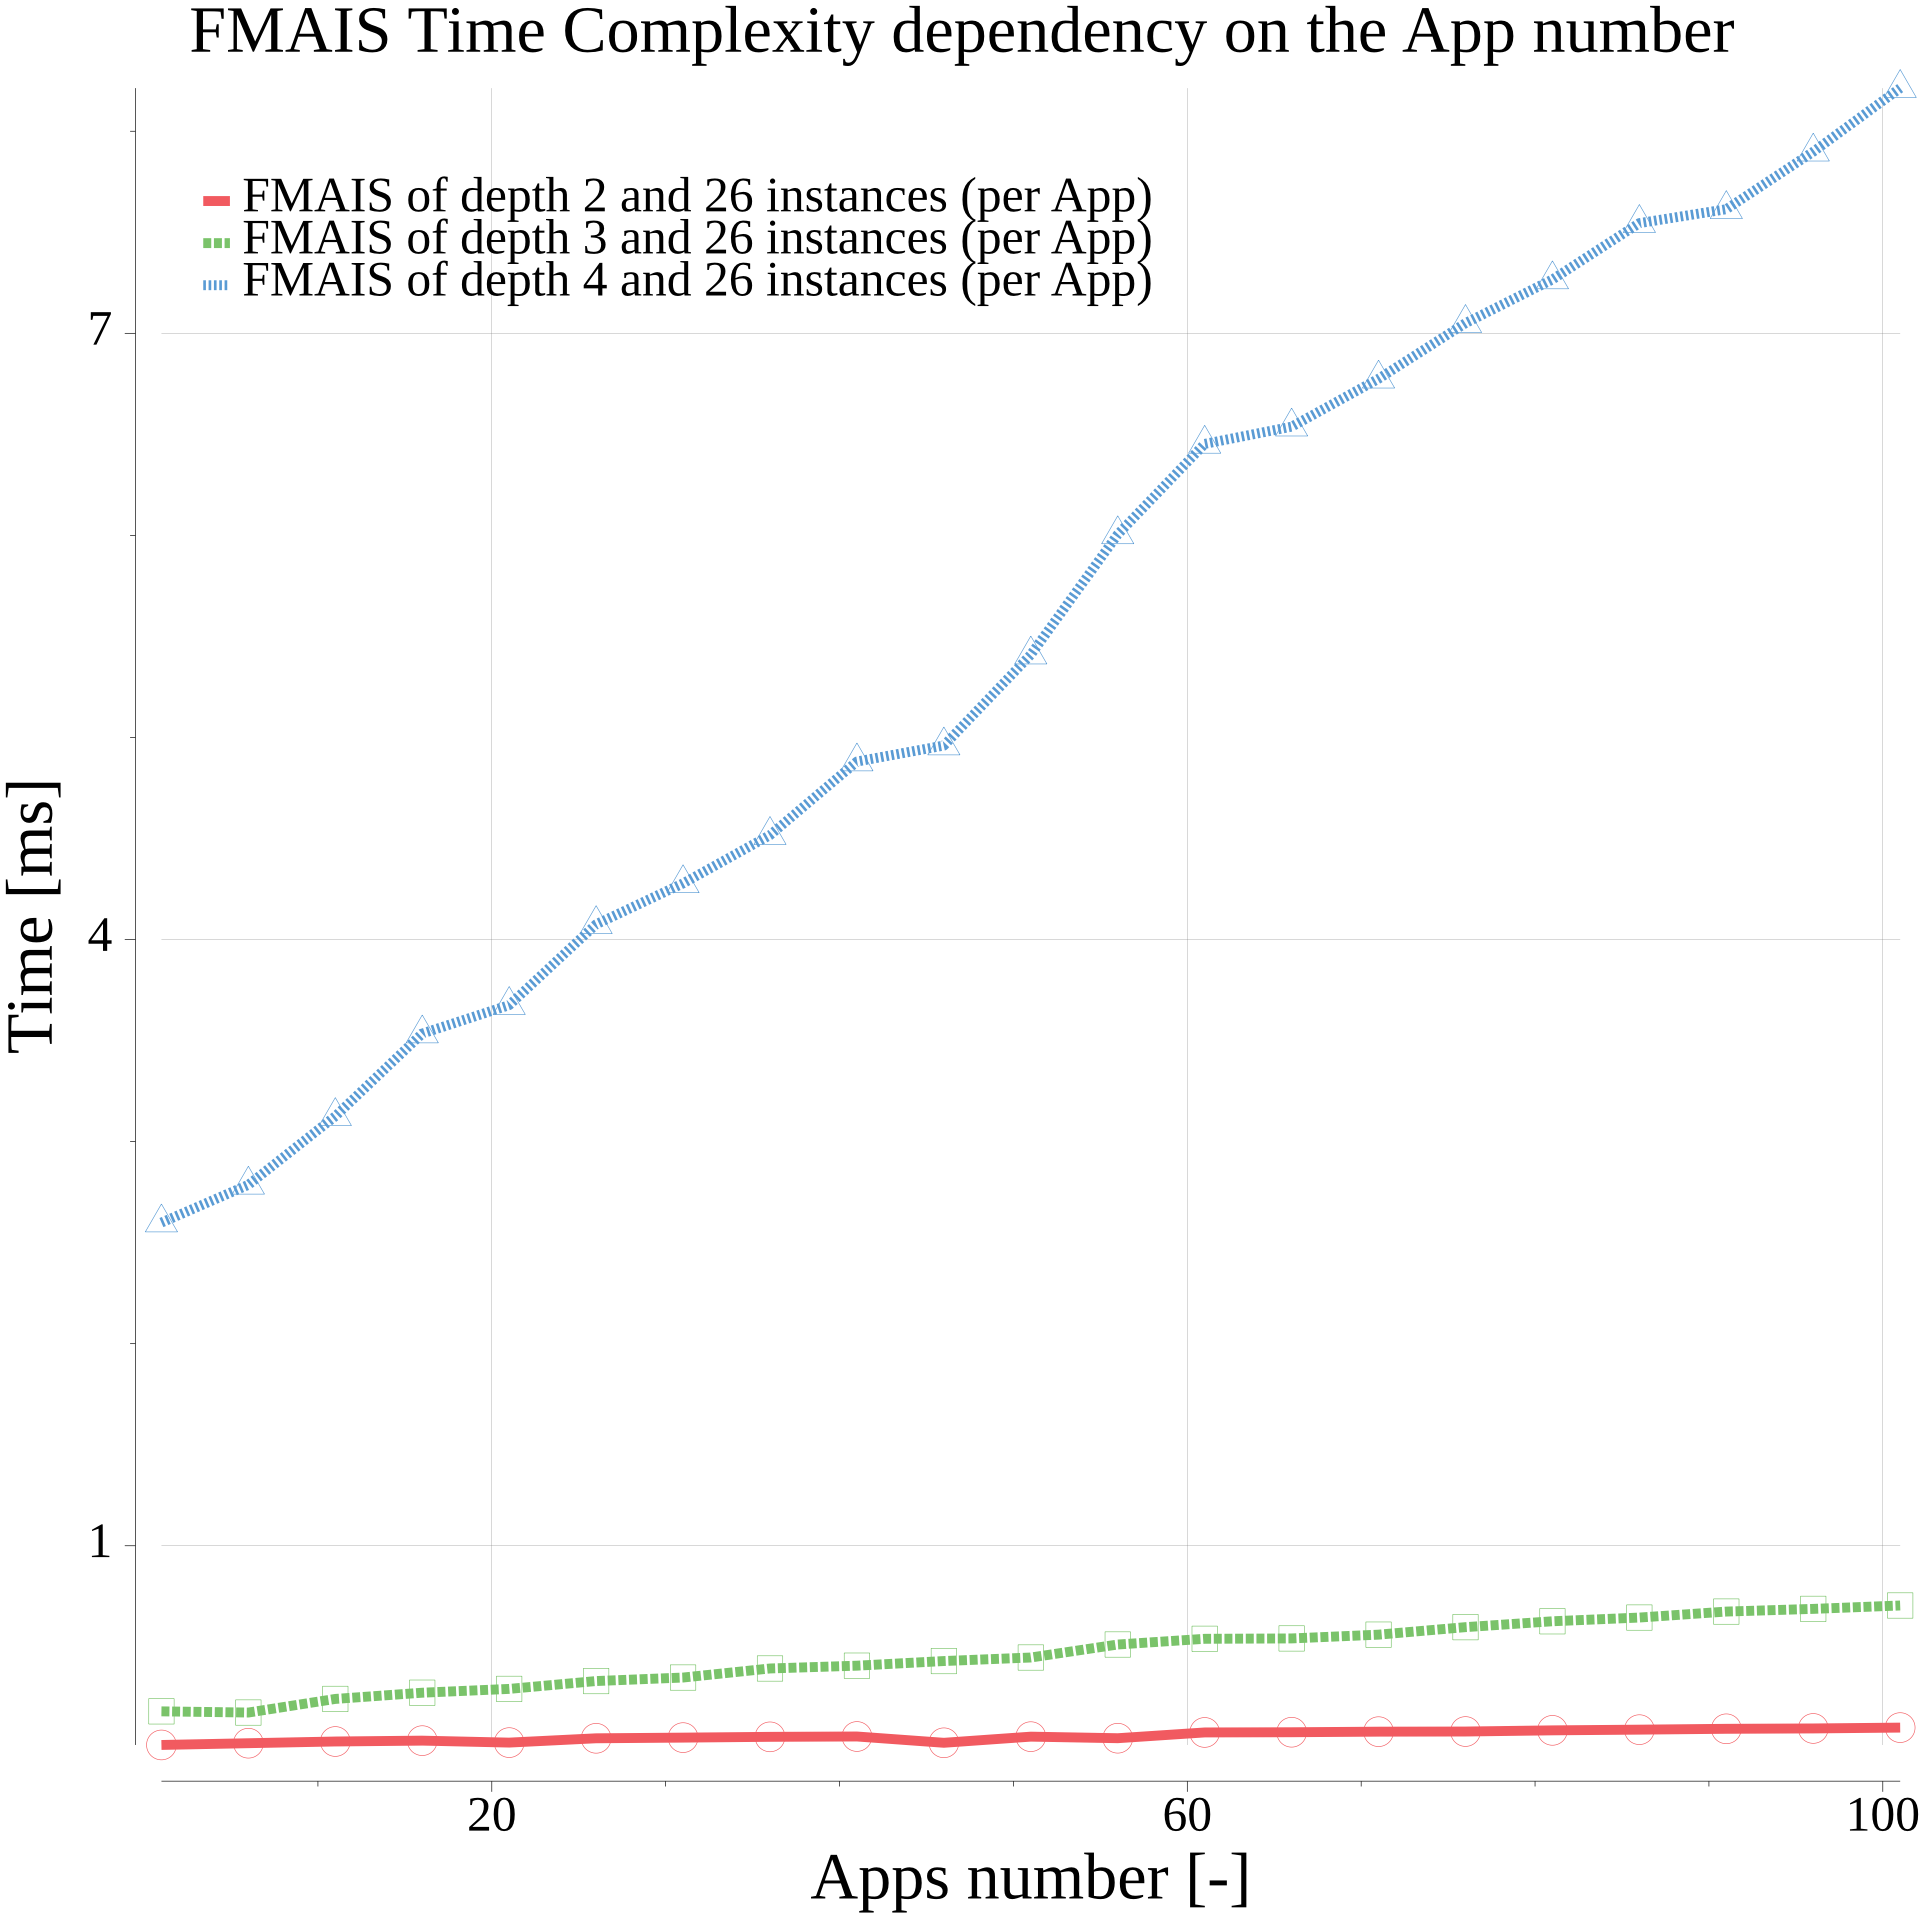
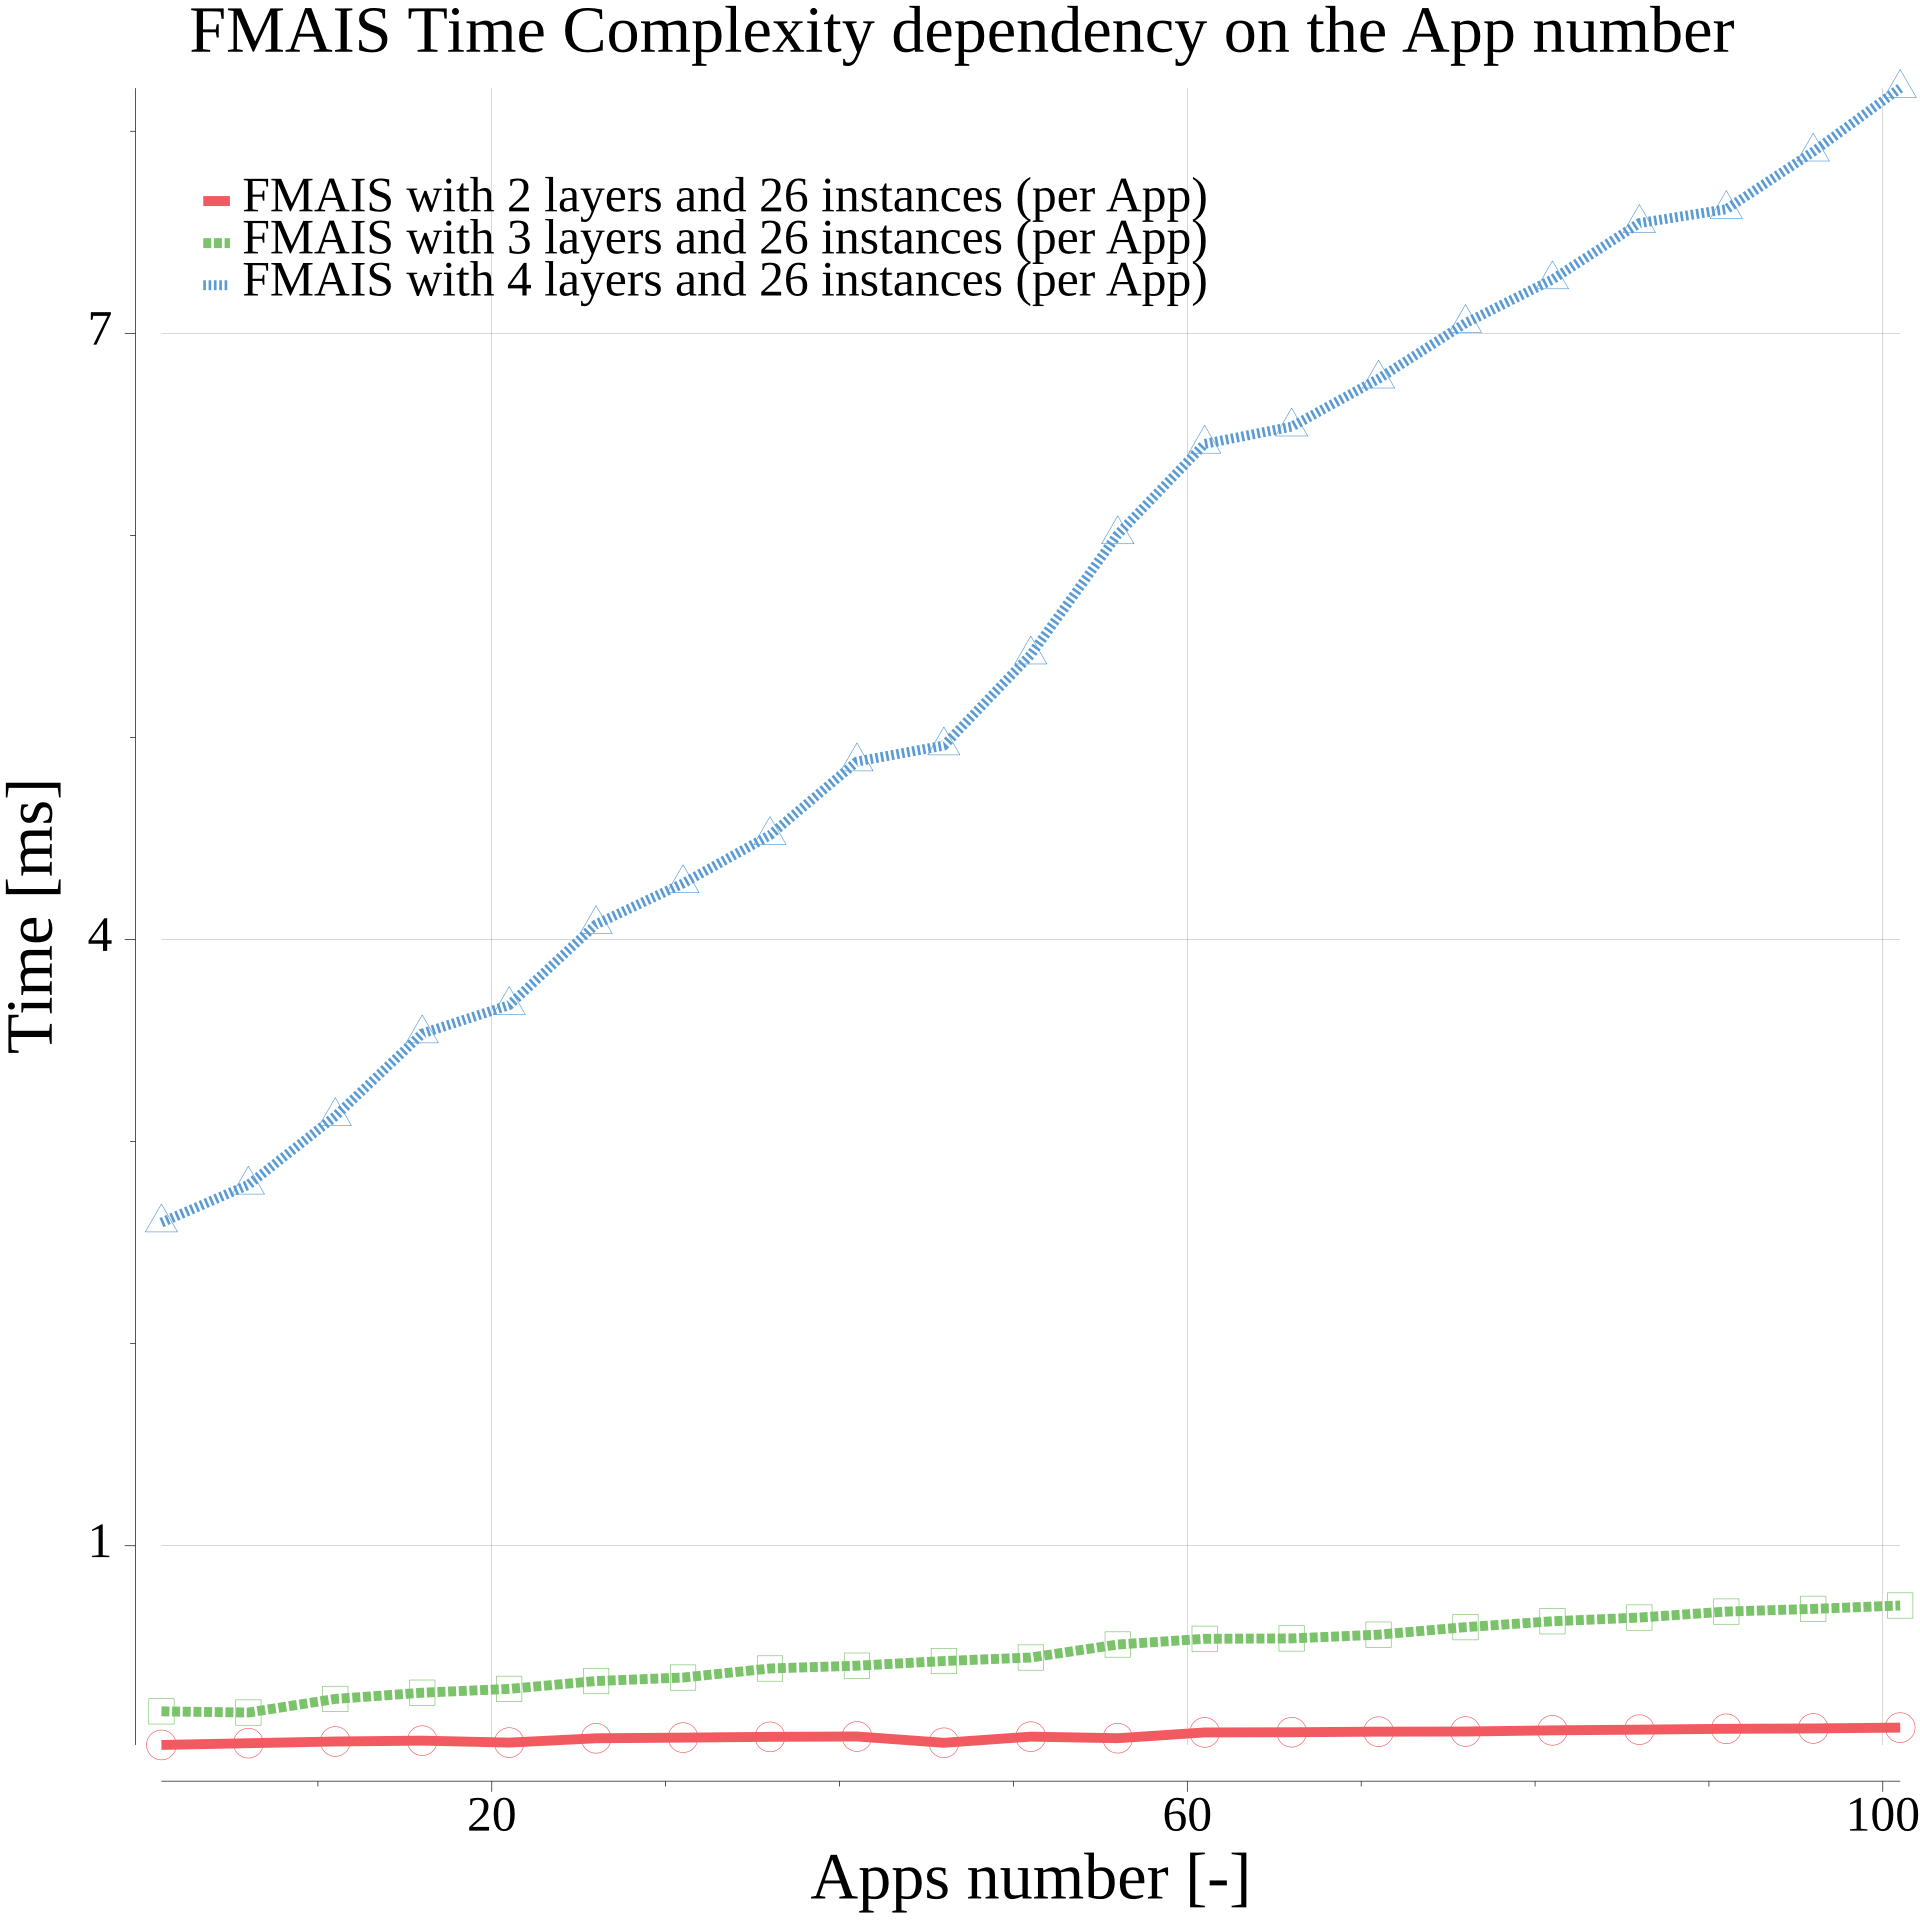
Changing naming in the figures

Changed region(s): [[0.2188, 0.0938, 0.625, 0.1562]]

diff --git a/pkg/draw/figure.go b/pkg/draw/figure.go
@@ -117,8 +117,8 @@ func PlotTimeComplexities(tc map[int]map[int]map[int]float64, maxDepth int, maxA
 	// plotting time complexity dependency based on depth
 	depthFigure := Draw{}
 	depthFigure.InitializeDrawStruct()
-	depthFigure.SetOutputFileName(strings.ToLower(prefix) + "_time-complexity-depth-26-inst").SetFigureName(figureName + "on the FMAIS depth").
-		SetYaxisName("Time [ms]").SetXaxisName("Depth [-]")
+	depthFigure.SetOutputFileName(strings.ToLower(prefix) + "_time-complexity-depth-26-inst").SetFigureName(figureName + "on the number of layers").
+		SetYaxisName("Time [ms]").SetXaxisName("Layers [-]")
 	var depthArr []int
 	for i := 1; i <= maxDepth; i++ {
 		depthArr = append(depthArr, i)
@@ -129,14 +129,14 @@ func PlotTimeComplexities(tc map[int]map[int]map[int]float64, maxDepth int, maxA
 		return err
 	}
 
-	depthFigure.SetOutputFileName(strings.ToLower(prefix) + "_time-complexity-depth-56-inst").SetFigureName(figureName + "on the FMAIS depth")
+	depthFigure.SetOutputFileName(strings.ToLower(prefix) + "_time-complexity-depth-56-inst").SetFigureName(figureName + "on the number of layers")
 	lines = getLinesForDepth(tc, depthArr, []int{1, 26, 51, 76, 96}, []int{56})
 	err = depthFigure.plotTimeComplexity(lines, greyScale, meertcore, false)
 	if err != nil {
 		return err
 	}
 
-	depthFigure.SetOutputFileName(strings.ToLower(prefix) + "_time-complexity-depth-96-inst").SetFigureName(figureName + "on the FMAIS depth")
+	depthFigure.SetOutputFileName(strings.ToLower(prefix) + "_time-complexity-depth-96-inst").SetFigureName(figureName + "on the number of layers")
 	lines = getLinesForDepth(tc, depthArr, []int{1, 26, 51, 76, 96}, []int{96})
 	err = depthFigure.plotTimeComplexity(lines, greyScale, meertcore, false)
 	if err != nil {
@@ -274,7 +274,7 @@ func getLinesForAppNumber(tc map[int]map[int]map[int]float64, depth []int, appNu
 				line = append(line, xy)
 			}
 			// this is to store graphs legend..
-			key := "FMAIS of depth " + strconv.Itoa(d) + " and " + strconv.Itoa(i) + " instances (per App)"
+			key := "FMAIS with " + strconv.Itoa(d) + " layers and " + strconv.Itoa(i) + " instances (per App)"
 			lines[key] = line
 		}
 	}
@@ -297,7 +297,7 @@ func getLinesForInstances(tc map[int]map[int]map[int]float64, depth []int, appNu
 				line = append(line, xy)
 			}
 			// this is to store graphs legend..
-			key := "FMAIS of depth " + strconv.Itoa(d) + " and " + strconv.Itoa(a) + " Apps"
+			key := "FMAIS with " + strconv.Itoa(d) + " layers and " + strconv.Itoa(a) + " Apps"
 			lines[key] = line
 		}
 	}
@@ -323,7 +323,7 @@ func getLinesForReliability(tc map[int]float64, apps, depth int) (map[string]plo
 		line = append(line, xy)
 	}
 
-	key := fmt.Sprintf("FMAIS of depth %d with %d Apps", depth, apps)
+	key := fmt.Sprintf("FMAIS with %d layers and with %d Apps", depth, apps)
 	lines[key] = line
 
 	return lines, nil
@@ -589,7 +589,7 @@ func PlotJointFigure(greyScale, meertcore bool, fileNames ...string) error {
 				return err
 			}
 			log.Printf("Data are imported from %s", fileName)
-			key := fmt.Sprintf("FMAIS of depth %d with %d Apps", apps[i], apps[i])
+			key := fmt.Sprintf("FMAIS with %d layers and with %d Apps", apps[i], apps[i])
 			dataArr[key] = data
 			i++
 		}
@@ -620,10 +620,10 @@ func PlotTimeComplexitiesJoint(tc map[string]map[int]map[int]map[int]float64, ma
 			appArr = append(appArr, appNumber)
 		}
 		lines := getLinesForAppNumber(value, []int{4}, appArr, []int{26})
-		linesApp[key+" FMAIS of depth 4 with 26 instances per App"] = lines["FMAIS of depth "+strconv.Itoa(4)+" and "+strconv.Itoa(26)+" instances (per App)"]
+		linesApp[key+" FMAIS with 4 layers and 26 instances per App"] = lines["FMAIS with "+strconv.Itoa(4)+" layers and "+strconv.Itoa(26)+" instances (per App)"]
 
 		lines = getLinesForAppNumber(value, []int{4}, appArr, []int{96})
-		linesApp[key+" FMAIS of depth 4 with 96 instances per App"] = lines["FMAIS of depth "+strconv.Itoa(4)+" and "+strconv.Itoa(96)+" instances (per App)"]
+		linesApp[key+" FMAIS with 4 layers and 96 instances per App"] = lines["FMAIS with "+strconv.Itoa(4)+" layers and "+strconv.Itoa(96)+" instances (per App)"]
 
 		//////// plotting dependencies for instances per application
 		var instArr []int
@@ -632,16 +632,16 @@ func PlotTimeComplexitiesJoint(tc map[string]map[int]map[int]map[int]float64, ma
 		}
 
 		lines = getLinesForInstances(value, []int{4}, []int{26}, instArr)
-		linesInstApp[key+" FMAIS of depth 4 with 26 Apps"] = lines["FMAIS of depth "+strconv.Itoa(4)+" and "+strconv.Itoa(26)+" Apps"]
+		linesInstApp[key+" FMAIS with 4 layers and 26 Apps"] = lines["FMAIS with "+strconv.Itoa(4)+" layers and "+strconv.Itoa(26)+" Apps"]
 
 		lines = getLinesForInstances(value, []int{4}, []int{96}, instArr)
-		linesInstApp[key+" FMAIS of depth 4 with 96 Apps"] = lines["FMAIS of depth "+strconv.Itoa(4)+" and "+strconv.Itoa(96)+" Apps"]
+		linesInstApp[key+" FMAIS with 4 layers and 96 Apps"] = lines["FMAIS with "+strconv.Itoa(4)+" layers and "+strconv.Itoa(96)+" Apps"]
 	}
 
 	// plotting time complexity dependency based on depth
 	depthFigure := Draw{}
 	depthFigure.InitializeDrawStruct()
-	depthFigure.SetOutputFileName("me-ert-core_time-complexity-comparison-apps-number").SetFigureName("ME-ERT-CORE time complexity (on the App number)").
+	depthFigure.SetOutputFileName("me-ert-core_time-complexity-comparison-apps-number").SetFigureName("ME-ERT-CORE time complexity dependency (on the Apps number)").
 		SetYaxisName("Time [ms]").SetXaxisName("Apps number [-]")
 	err := depthFigure.plotTimeComplexity(linesApp, greyScale, false, false)
 	if err != nil {
@@ -650,7 +650,7 @@ func PlotTimeComplexitiesJoint(tc map[string]map[int]map[int]map[int]float64, ma
 
 	depthFigure1 := Draw{}
 	depthFigure1.InitializeDrawStruct()
-	depthFigure1.SetOutputFileName("me-ert-core_time-complexity-comparison-app-inst-number").SetFigureName("ME-ERT-CORE time complexity (on the instances per App)").
+	depthFigure1.SetOutputFileName("me-ert-core_time-complexity-comparison-app-inst-number").SetFigureName("ME-ERT-CORE time complexity dependency (on the instances per App)").
 		SetYaxisName("Time [ms]").SetXaxisName("Instances (per App) [-]")
 	err = depthFigure1.plotTimeComplexity(linesInstApp, greyScale, false, false)
 	if err != nil {
